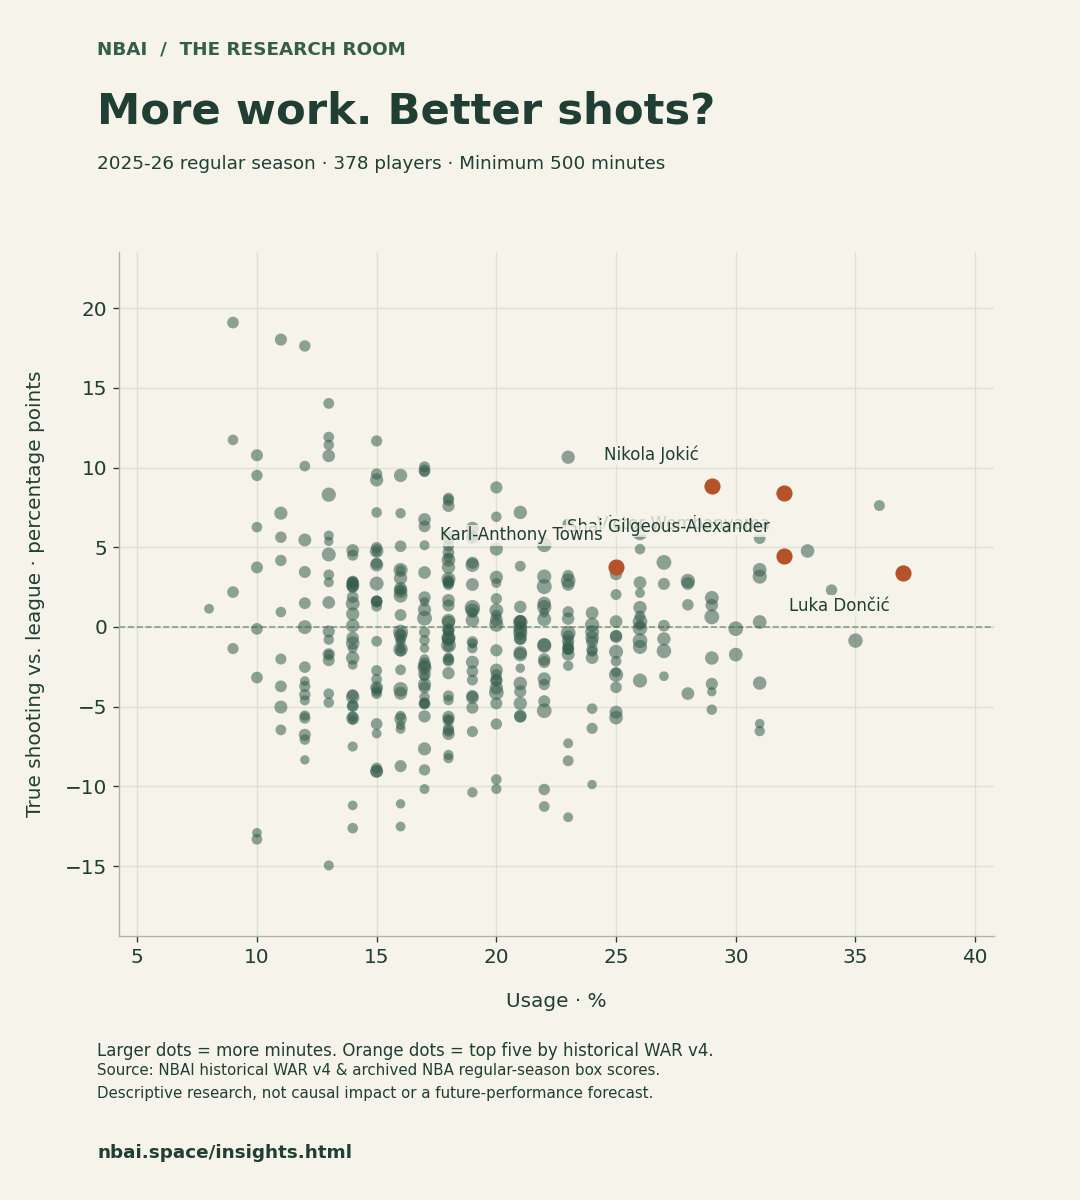
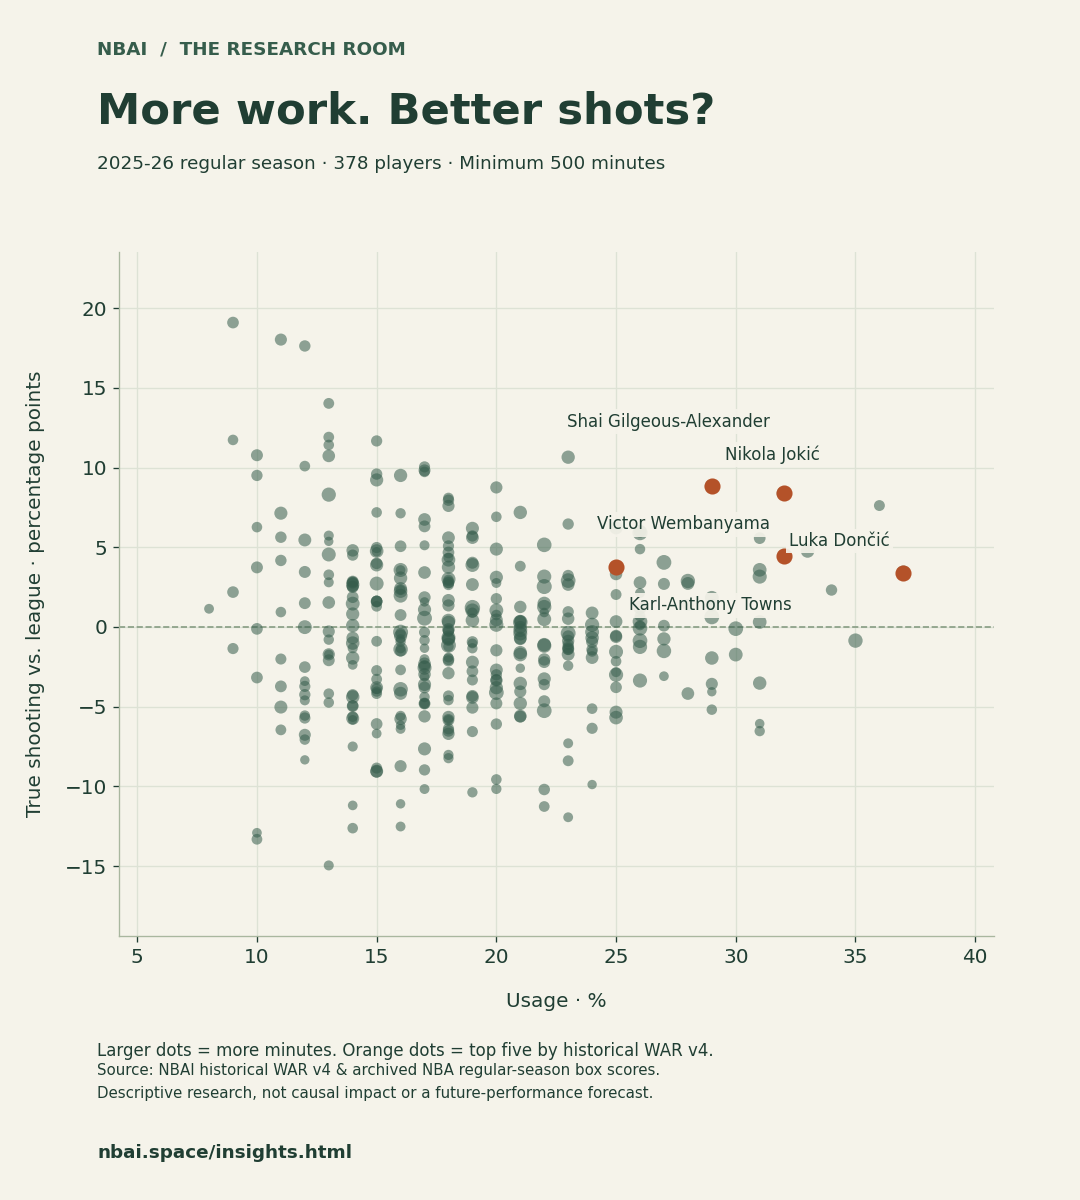
Keep exported research chart labels from overlapping

Changed region(s): [[0.3972, 0.4317, 0.825, 0.4625], [0.5194, 0.3392, 0.7639, 0.4008], [0.5806, 0.4933, 0.825, 0.5242]]

diff --git a/scripts/export_research_graphics.py b/scripts/export_research_graphics.py
@@ -20,9 +20,16 @@ for mode in ['impact','efficiency']:
  ax.axhline(0,color='#879c83',ls='--',lw=1)
  if impact:ax.axvline(0,color='#879c83',ls='--',lw=1)
  leaders=sorted(range(len(p)),key=lambda i:p[i]['war'],reverse=True)[:5]
- for j,i in enumerate(leaders):
+ labels=[]
+ ax.margins(.13)
+ for i in leaders:
   ax.scatter([xs[i]],[ys[i]],s=75,c=ORANGE,zorder=4)
-  ax.annotate(p[i]['name'],(xs[i],ys[i]),xytext=(-8,16 if j%2==0 else -23),textcoords='offset points',ha='right',fontsize=10,color=INK,bbox=dict(facecolor=BG,edgecolor='none',alpha=.8,pad=1),zorder=5)
+  for dx,dy in [(8,16),(-8,16),(8,-26),(-8,-26),(8,40),(-8,40),(8,-48),(-8,-48)]:
+   annotation=ax.annotate(p[i]['name'],(xs[i],ys[i]),xytext=(dx,dy),textcoords='offset points',ha='left' if dx>0 else 'right',fontsize=10,color=INK,bbox=dict(facecolor=BG,edgecolor='none',alpha=.92,pad=2),zorder=5)
+   fig.canvas.draw();box=annotation.get_bbox_patch().get_window_extent().expanded(1.03,1.25);bounds=ax.get_window_extent()
+   if box.x0>=bounds.x0 and box.x1<=bounds.x1 and box.y0>=bounds.y0 and box.y1<=bounds.y1 and not any(box.overlaps(old) for old in labels):labels.append(box);break
+   annotation.remove()
+  else:raise ValueError('Could not place chart label without overlap')
  ax.set_xlabel('Offensive component · points / 100' if impact else 'Usage · %',labelpad=15);ax.set_ylabel('Defensive component · points / 100' if impact else 'True shooting vs. league · percentage points',labelpad=12);ax.margins(.13)
  fig.text(.09,.12,'Larger dots = more minutes. Orange dots = top five by historical WAR v4.',fontsize=10)
  fig.text(.09,.085,'Source: NBAI historical WAR v4 & archived NBA regular-season box scores.\nDescriptive research, not causal impact or a future-performance forecast.',fontsize=9,linespacing=1.7)
